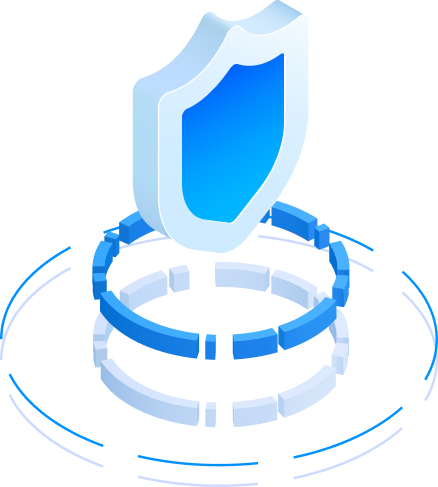
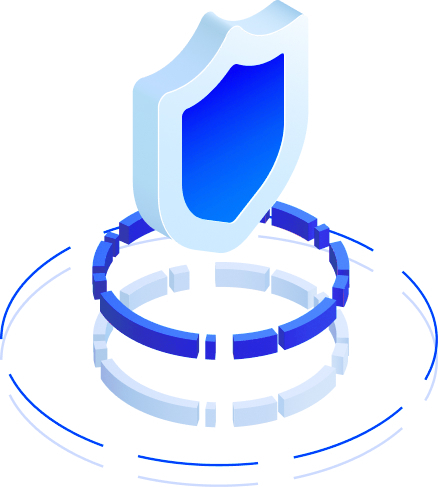
Modification on last section of the home page

diff --git a/public/css/style.css b/public/css/style.css
@@ -205,3 +205,7 @@ li.nav-item {
     display: block;
     margin-top: 10px;
 }
+
+.icon-home {
+    width: 10%;
+}
